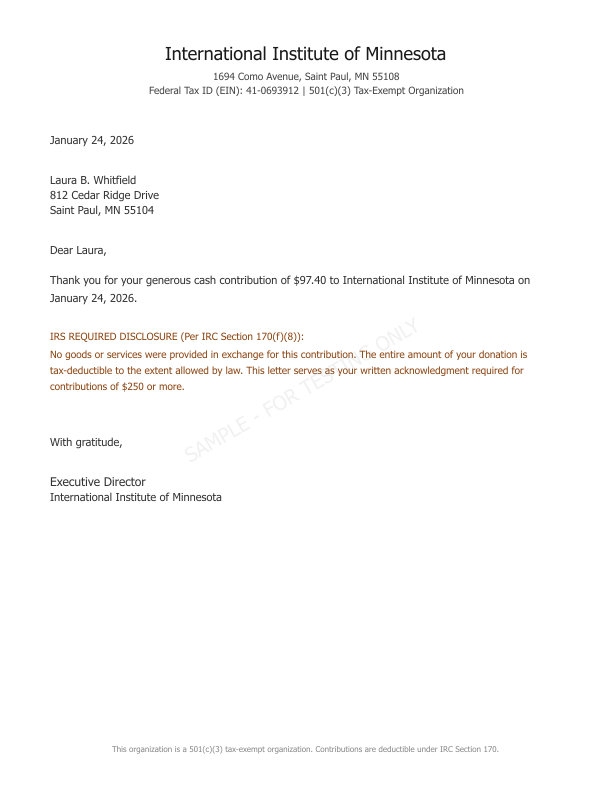
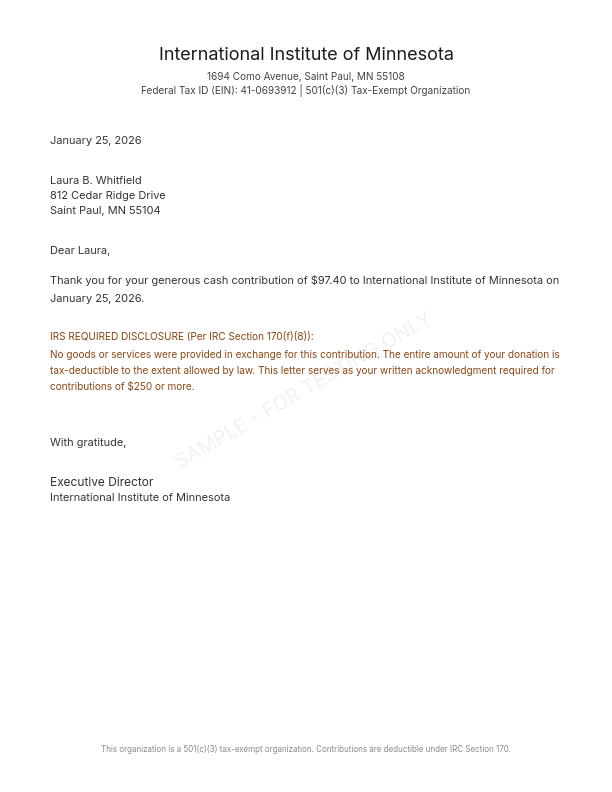
Fix DM-503 OCR fixture inconsistencies

diff --git a/scripts/generate_from_donations.js b/scripts/generate_from_donations.js
@@ -34,14 +34,41 @@ const generators = {
     gofundme_receipt: generateGoFundMeReceipt
 };
 
+const onlyDonationIds = parseFilter(process.env.ONLY_DONATIONS);
+const onlyFormTypes = parseFilter(process.env.ONLY_FORMS);
+const hasGenerationFilter = Boolean(onlyDonationIds || onlyFormTypes);
+
 // Utility functions
+function parseFilter(value) {
+    const items = (value || '').split(',').map(item => item.trim()).filter(Boolean);
+    return items.length ? new Set(items) : null;
+}
+
+function shouldGenerateImage(donation, formType) {
+    return (!onlyDonationIds || onlyDonationIds.has(donation.id)) &&
+        (!onlyFormTypes || onlyFormTypes.has(formType));
+}
+
+function parseFixtureDate(dateStr) {
+    const match = typeof dateStr === 'string' && dateStr.match(/^(\d{4})-(\d{2})-(\d{2})$/);
+    if (match) {
+        return new Date(Number(match[1]), Number(match[2]) - 1, Number(match[3]));
+    }
+    return new Date(dateStr);
+}
+
+function getFixtureYear(dateStr) {
+    const match = typeof dateStr === 'string' && dateStr.match(/^(\d{4})-\d{2}-\d{2}$/);
+    return match ? Number(match[1]) : new Date(dateStr).getFullYear();
+}
+
 function formatDate(dateStr) {
-    const d = new Date(dateStr);
+    const d = parseFixtureDate(dateStr);
     return d.toLocaleDateString('en-US', { year: 'numeric', month: 'long', day: 'numeric' });
 }
 
 function formatDateShort(dateStr) {
-    const d = new Date(dateStr);
+    const d = parseFixtureDate(dateStr);
     return d.toLocaleDateString('en-US', { month: '2-digit', day: '2-digit', year: 'numeric' });
 }
 
@@ -307,7 +334,7 @@ function generateAcknowledgmentLetter(donation) {
         bodyText = `Thank you for your generous cash contribution of ${formatMoney(donation.amount)} to ${donation.donee.name} on ${formatDate(donation.contributionDate)}.`;
     } else if (donation.assetType === 'vehicle') {
         const v = donation.vehicle;
-        bodyText = `Thank you for your generous donation of a ${v.year} ${v.make} ${v.model} (VIN: ${v.vin}) to ${donation.donee.name} on ${formatDate(donation.contributionDate)}.`;
+        bodyText = `Thank you for your generous donation of a ${v.year} ${v.make} ${v.model} (VIN: ${v.vin}, estimated fair market value: ${formatMoney(donation.amount)}) to ${donation.donee.name} on ${formatDate(donation.contributionDate)}.`;
     } else if (donation.assetType.startsWith('stock')) {
         bodyText = `Thank you for your generous donation of securities to ${donation.donee.name} on ${formatDate(donation.contributionDate)}.`;
     } else {
@@ -418,7 +445,7 @@ function generateReceipt(donation) {
     
     ctx.font = '11px Inter';
     ctx.fillStyle = '#333333';
-    ctx.fillText(`RCP-${donation.id}-${new Date(donation.contributionDate).getFullYear()}`, 155, y + 18);
+    ctx.fillText(`RCP-${donation.id}-${getFixtureYear(donation.contributionDate)}`, 155, y + 18);
     ctx.fillText(formatDate(new Date().toISOString()), 140, y + 36);
     ctx.fillText(formatDate(donation.contributionDate), 415, y + 18);
     
@@ -1176,7 +1203,7 @@ function generateStockConfirmation(donation) {
     ctx.fillText('Transaction Type:', 320, y + 40);
     
     ctx.font = '10px Inter';
-    ctx.fillText(`SCH-${new Date(donation.contributionDate).getFullYear()}-${Math.floor(100000 + Math.random() * 900000)}`, 170, y + 20);
+    ctx.fillText(`SCH-${getFixtureYear(donation.contributionDate)}-${Math.floor(100000 + Math.random() * 900000)}`, 170, y + 20);
     ctx.fillText(formatDate(donation.contributionDate), 130, y + 40);
     ctx.fillText('Individual Brokerage', 420, y + 20);
     ctx.fillText('DTC Transfer to Charity', 430, y + 40);
@@ -1364,29 +1391,36 @@ async function main() {
             const filename = `${formType}_${donation.id}.png`;
             const filepath = path.join(OUTPUT_DIR, formType, filename);
             
+            const manifestDocument = {
+                filename: `${formType}/${filename}`,
+                formType: formType,
+                donationId: donation.id,
+                boundary: donation.boundary || false,
+                expectedFields: {
+                    donor_name: donation.donor.name,
+                    donor_address: formatAddress(donation.donor),
+                    donee_name: donation.donee.name,
+                    donee_ein: donation.donee.ein,
+                    contribution_date: donation.contributionDate,
+                    amount: donation.amount,
+                    asset_type: donation.assetType,
+                    asset_description: donation.assetDescription || null
+                }
+            };
+
+            if (hasGenerationFilter && !shouldGenerateImage(donation, formType)) {
+                manifest.documents.push(manifestDocument);
+                manifest.formCounts[formType] = (manifest.formCounts[formType] || 0) + 1;
+                manifest.totalForms++;
+                continue;
+            }
+
             try {
                 const buffer = generator(donation);
                 fs.writeFileSync(filepath, buffer);
                 console.log(`  ✓ Generated ${formType}/${filename}`);
-                
-                // Add to manifest
-                manifest.documents.push({
-                    filename: `${formType}/${filename}`,
-                    formType: formType,
-                    donationId: donation.id,
-                    boundary: donation.boundary || false,
-                    expectedFields: {
-                        donor_name: donation.donor.name,
-                        donor_address: formatAddress(donation.donor),
-                        donee_name: donation.donee.name,
-                        donee_ein: donation.donee.ein,
-                        contribution_date: donation.contributionDate,
-                        amount: donation.amount,
-                        asset_type: donation.assetType,
-                        asset_description: donation.assetDescription || null
-                    }
-                });
-                
+
+                manifest.documents.push(manifestDocument);
                 manifest.formCounts[formType] = (manifest.formCounts[formType] || 0) + 1;
                 manifest.totalForms++;
             } catch (err) {

diff --git a/scripts/generate_from_donations_v2.js b/scripts/generate_from_donations_v2.js
@@ -20,14 +20,35 @@ const OUTPUT_DIR = path.join(__dirname, '..', 'documents');
 // Load donations
 const donationsData = JSON.parse(fs.readFileSync(DONATIONS_PATH, 'utf8'));
 
+const onlyDonationIds = parseFilter(process.env.ONLY_DONATIONS);
+const onlyFormTypes = parseFilter(process.env.ONLY_FORMS);
+
 // Utility functions
+function parseFilter(value) {
+    const items = (value || '').split(',').map(item => item.trim()).filter(Boolean);
+    return items.length ? new Set(items) : null;
+}
+
+function shouldGenerateImage(donation, formType) {
+    return (!onlyDonationIds || onlyDonationIds.has(donation.id)) &&
+        (!onlyFormTypes || onlyFormTypes.has(formType));
+}
+
+function parseFixtureDate(dateStr) {
+    const match = typeof dateStr === 'string' && dateStr.match(/^(\d{4})-(\d{2})-(\d{2})$/);
+    if (match) {
+        return new Date(Number(match[1]), Number(match[2]) - 1, Number(match[3]));
+    }
+    return new Date(dateStr);
+}
+
 function formatDate(dateStr) {
-    const d = new Date(dateStr);
+    const d = parseFixtureDate(dateStr);
     return d.toLocaleDateString('en-US', { year: 'numeric', month: 'long', day: 'numeric' });
 }
 
 function formatDateShort(dateStr) {
-    const d = new Date(dateStr);
+    const d = parseFixtureDate(dateStr);
     return d.toLocaleDateString('en-US', { month: '2-digit', day: '2-digit', year: 'numeric' });
 }
 
@@ -843,6 +864,7 @@ async function main() {
     for (const donation of donationsData.donations) {
         for (const formType of donation.forms) {
             if (!forms.includes(formType)) continue;
+            if (!shouldGenerateImage(donation, formType)) continue;
             
             const generator = generators[formType];
             if (!generator) continue;

diff --git a/README.md b/README.md
@@ -35,7 +35,7 @@ distinguish deductible charitable receipts from non-deductible payment confirmat
 donatemate-ocr-test-fixtures/
 ├── README.md
 ├── IRS_FORMS_README.md           # IRS documentation requirements reference
-├── donations.json                 # Master donation definitions (28 test cases)
+├── donations.json                 # Master donation definitions (37 test cases)
 ├── manifest_v2.json               # Generated document manifest with expected fields
 ├── documents/
 │   ├── acknowledgment_letter/     # acknowledgment_letter_D001.png, ...
@@ -46,7 +46,8 @@ donatemate-ocr-test-fixtures/
 │   ├── form_8283_section_a/       # form_8283_section_a_D010.png, ...
 │   ├── form_8283_section_b/       # form_8283_section_b_D013.png, ...
 │   ├── receipt/                   # receipt_D006.png, ...
-│   └── stock_confirmation/        # stock_confirmation_D020.png, ...
+│   ├── stock_confirmation/        # stock_confirmation_D020.png, ...
+│   └── gofundme_receipt/          # gofundme_receipt_D035.png, ...
 └── scripts/
     └── generate_from_donations.js # Generator script
 ```
@@ -69,11 +70,11 @@ For donations requiring multiple forms, **all forms share consistent data**:
 | Donation | Forms Generated | Donor | Donee | Amount |
 |----------|-----------------|-------|-------|--------|
 | D010 | form_8283_section_a, acknowledgment_letter | Sarah M. Johnson | Goodwill Industries | $501.00 |
-| D013 | form_8283_section_b, appraisal, acknowledgment_letter | Robert J. Anderson | First Community Church | $5,001.00 |
+| D013 | form_8283_section_b, appraisal, acknowledgment_letter | Robert J. Anderson | Colorado Symphony Association | $5,001.00 |
 
 ## Test Cases
 
-The `donations.json` file defines 28 test donations covering all IRS thresholds:
+The `donations.json` file defines 37 test donations covering all IRS thresholds:
 
 ### Cash Donations
 | ID | Amount | Forms | Notes |
@@ -83,6 +84,12 @@ The `donations.json` file defines 28 test donations covering all IRS thresholds:
 | D003 | **$250** | acknowledgment_letter | **Boundary** |
 | D004 | $1,500 | acknowledgment_letter | |
 | D005 | $5,000 | acknowledgment_letter | |
+| D029 | $63.50 | acknowledgment_letter | Small gift with written acknowledgment |
+| D030 | $84.25 | acknowledgment_letter | Small gift with written acknowledgment |
+| D031 | $97.40 | acknowledgment_letter | Small gift with written acknowledgment |
+| D032 | $58.75 | acknowledgment_letter | Small gift with written acknowledgment |
+| D033 | $487.65 | acknowledgment_letter | Requires written acknowledgment |
+| D034 | $425,000 | acknowledgment_letter | Major gift |
 
 ### Non-Cash Donations (Goods)
 | ID | Amount | Forms | Notes |
@@ -126,6 +133,13 @@ The `donations.json` file defines 28 test donations covering all IRS thresholds:
 |----|--------|-------|-------|
 | D027 | $100,000 | form_8283_section_b, appraisal | |
 | D028 | $500,000 | form_8283_section_b, appraisal | |
+
+### Non-Deductible Crowdfunding
+| ID | Amount | Forms | Notes |
+|----|--------|-------|-------|
+| D035 | $50 | gofundme_receipt | Personal fundraiser, not tax deductible |
+| D036 | $150 | gofundme_receipt | Personal fundraiser, not tax deductible |
+| D037 | $25 | gofundme_receipt | Platform tip included, not tax deductible |
 
 ## Manifest Format
 
@@ -174,6 +188,9 @@ npm install
 
 # Generate all documents from donations.json
 node scripts/generate_from_donations.js
+
+# Regenerate selected documents while still recomputing manifest_v2.json
+ONLY_DONATIONS=D029,D030 ONLY_FORMS=acknowledgment_letter node scripts/generate_from_donations.js
 ```
 
 ## IRS Documentation Requirements
